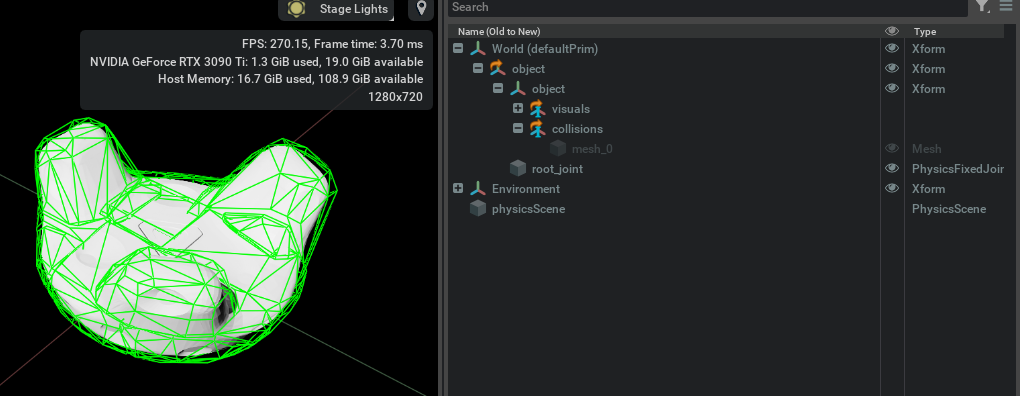
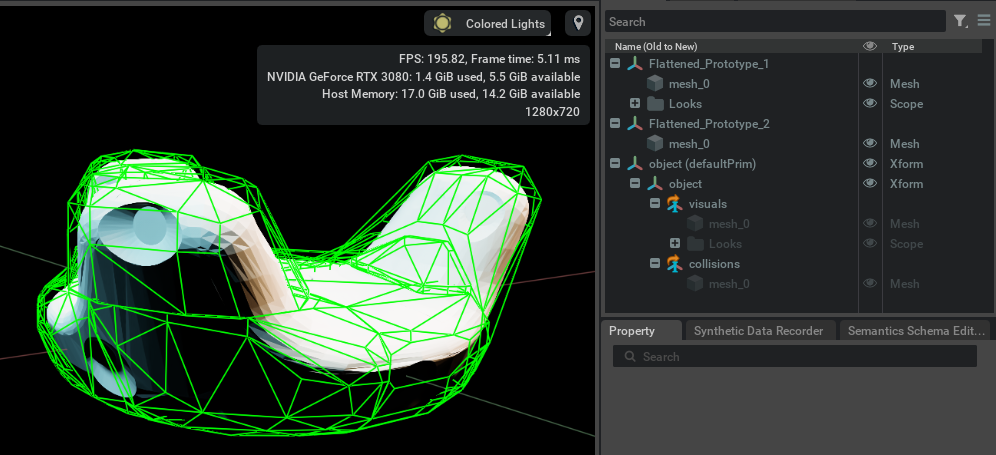
update rl_vive_tracker_object page, now generates usable object

diff --git a/docs/user_guide/rl_vive_tracker_obect.rst b/docs/user_guide/rl_vive_tracker_obect.rst
@@ -82,7 +82,8 @@ pane as follows:
 
 .. image:: ../img/rl_isaac_URDF_importer.png
 
-
+Click the folder icon on the ``Import File`` row in the ``Import`` section and go to ``/workspace/omniisaacgymenvs/objects/``. Double click the 
+``vive_tracker.urdf`` file you made earlier.
 Then click the ``IMPORT`` button at the bottom of the URDF Importer pane. This will process the URDF and .obj file(s) and create a new 
 folder named after the URDF file in the ``objects`` directory. This folder will contain a .usd file for the object, 
 as well as a .usd file for the object's meshes. The ``objects`` folder structure should now be:
@@ -98,14 +99,70 @@ as well as a .usd file for the object's meshes. The ``objects`` folder structure
     └── vive_tracker.urdf
 
 
+Enable Coloured Lights
+^^^^^^^^^^^^^^^^^^^^^^^
+
+In the top right corner of the viewport, click the button with a picture of a light that says ``Stage Lights``. Select ``Coloured Lights`` 
+under ``Light Rigs``.
+
+.. image:: ../img/rl_isaac_enable_lighting.png
 
 
 XForm Structure
 ^^^^^^^^^^^^^^^
 
-Xforms must be structured according to the structure in the following image. If you have used the URDF above, this should already be correct.
+The XForm structure of the imported URDF object should currently look like this:
 
-.. image:: ../img/rl_vive_tracker_object_usd_structure.png
+.. image:: ../img/rl_vive_tracker_object_initial_usd_structure.png
+
+
+Delete the root_joint
+^^^^^^^^^^^^^^^^^^^^^
+
+In the ``Stage`` view on the right hand side, right-click ``root_joint`` and click ``Delete``.
+
+.. image:: ../img/rl_isaac_tracker_delete_root.png
+
+
+Set default prim
+^^^^^^^^^^^^^^^^
+
+In the ``Stage`` view on the right hand side, right-click the top ``object`` XForm and click ``Set as Default Prim``.
+
+.. image:: ../img/rl_isaac_tracker_set_default_prim.png
+
+
+Delete Physics Articulation Root
+^^^^^^^^^^^^^^^^^^^^^^^^^^^^^^^^
+
+In the ``Stage`` view on the right hand side, select the top ``object`` XForm. In the ``Property`` pane below the ``Stage`` pane, scroll down to the ``Physics`` 
+section. To the right of ``Articulation Root``, click the red ``X`` button. When asked if you are sure you want to remove the ``Articulation root`` 
+component, select yes.
+
+.. image:: ../img/rl_isaac_tracker_delete_physics_articulation_root.png
+
+Save the tracker as a flattened .usda file
+^^^^^^^^^^^^^^^^^^^^^^^^^^^^^^^^^^^^^^^^^^
+
+Click ``File`` > ``Save Flattened As...``
+
+Change the extention to ``.usda``, the filename as ``vive_tracker_flat``, and save the file in the ``objects/vive_tracker`` 
+directory:
+
+``/workspace/omniisaacgymenvs/objects/vive_tracker``
+
+.. image:: ../img/rl_save_flattened_tracker.png
+
+Now, clear the stage: ``File`` > ``New``. When prompted, click ``Don't Save``.
+
+Now, load the file we just saved.
+
+``File`` > ``Open``
+
+And select/open the file we just saved called ``vive_tracker_flat.usda``:
+
+.. image:: ../img/rl_open_vive_tracker_flat.png
+
 
 
 Tuning the collision mesh
@@ -133,18 +190,19 @@ You should now be able to see the collision mesh and the following asset structu
 You will notice that the collision mesh is larger than the imported object. Lets fix this.
 
 
-(Temporarily) disable the Instanceable property of the collisions XForm
-^^^^^^^^^^^^^^^^^^^^^^^^^^^^^^^^^^^^^^^^^^^^^^^^^^^^^^^^^^^^^^^^^^^^^^^
+Find which prototype is the collision mesh
+^^^^^^^^^^^^^^^^^^^^^^^^^^^^^^^^^^^^^^^^^^
+In the ``Stage`` pane on the right, go to ``object`` > ``object`` > ``collisions``. In the ``Property`` pane below, in the ``References`` section, 
+have a look at the Prim Path for the collision mesh:
 
-To change the properties of the convex decomposition, we first need to uncheck the ``Instanceable`` property of the collisions XForm.
+.. image:: ../img/rl_tracker_isaac_which_prototype_is_collision.png
 
-.. image:: ../img/rl_uncheck_collisions_instanceable.png
+In this case, you can see that it says ``/Flattened_Prototype_1``. Now, in the ``Stage`` pane, go to ``Flattened_Prototype_1`` > ``mesh_0`` (or whichever 
+prototype was specified in the ``References`` section of the collision mesh). Make sure ``mesh_0`` of the approperiate ``Flattened_Prototype_x`` XForm 
+is selected. 
 
-
-Then, select ``mesh_0`` under ``collisions`` in the Stage window in the top right of the Isaac GUI, and in the ``Property`` pane scroll down to 
-``Physics`` > ``Collider``.
-
-.. image:: ../img/rl_convex_decomp_mesh0.png
+Tuning the convex decomposition of the collision mesh
+^^^^^^^^^^^^^^^^^^^^^^^^^^^^^^^^^^^^^^^^^^^^^^^^^^^^^
 
 To bring up the convex decomposition settings we need, under ``Approximation``, change the option from ``Convex Decomposition`` 
 to something else (e.g. ``Triangle Mesh``) and then change it back to ``Convex Decomposition``. Now expand the ``Advanced`` section. The ``Physics`` > 
@@ -152,15 +210,14 @@ to something else (e.g. ``Triangle Mesh``) and then change it back to ``Convex D
 
 .. image:: ../img/rl_convex_decomp_mesh0_advanced.png
 
-* You probably want to increase the ``Voxel Resolution`` to max (5000000). This will increase the time taken to 
-compute the convex decomposition but shouldn't have an impact on runtime performance. 
+Make the following changes:
 
-* Play around with increasing the ``Max Convex Hulls``, in theory 
-this should give a more accurate convex decomposition, but this could potentially slow the RL simulation down. We have gone for around 200 Max Convex 
-Hulls for this example. 
+* You probably want to increase the ``Voxel Resolution`` to max (5000000). This will increase the time taken to compute the convex decomposition but shouldn't have an impact on runtime performance. 
 
-* Finally, tick the ``Shrink Wrap`` box to have the convex decomposition process attempt to adjust the convex hulls so that their 
-points lie on the surface of the original mesh.
+* Play around with increasing the ``Max Convex Hulls``, in theory this should give a more accurate convex decomposition, but this could potentially slow the RL simulation down. We have gone for around 200 Max Convex Hulls for this example. 
+
+* Finally, tick the ``Shrink Wrap`` box to have the convex decomposition process attempt to adjust the convex hulls so that their points lie on the surface of the original mesh.
+
 
 .. image:: ../img/rl_convex_decomp_mesh0_advanced_shrinkwrap.png
 
@@ -168,33 +225,4 @@ The imported URDF object should now look like this:
 
 .. image:: ../img/rl_convex_decomp_mesh0_advanced_shrinkwrap_result.png
 
-
-Re-enable the instanceable collision mesh
-^^^^^^^^^^^^^^^^^^^^^^^^^^^^^^^^^^^^^^^^^
-
-Now that we have tuned the convex decomposition settings, we can re-enable the ``Instanceable`` property of the collisions XForm. If we just 
-re-tick the ``Instanceable`` box, the convex decomposition settings will be reset.
-
-Click ``File`` > ``Save Flattened As...``
-
-Change the extention to ``.usda``, the filename as ``vive_tracker_flat``, and save the file in the ``objects`` directory 
-we made earlier: ``/workspace/omniisaacgymenvs/objects/``
-
-.. image:: ../img/rl_save_flattened_tracker.png
-
-Now, clear the stage: ``File`` > ``New``. When prompted, click ``Don't Save``.
-
-Now, load the file we just saved.
-
-``File`` > ``Open``
-
-And select/open the file we just saved called ``vive_tracker_flat.usda``:
-
-.. image:: ../img/rl_open_vive_tracker_flat.png
-
-
-Now, reenable the instanceable property of the collisions XForm in the ``Stage`` pane: ``object`` > ``object`` > ``collisions``:
-
-.. image:: ../img/rl_reenable_instanceable_property.png
-
-Click ``File`` > ``Save``
+Click ``File`` > ``Save``. When prompted, click ``Save``.

diff --git a/docs/user_guide/rl_start_training.rst b/docs/user_guide/rl_start_training.rst
@@ -20,7 +20,7 @@ First, lets use a small number of environments to check that everything is worki
 
 .. code-block:: bash
 
-    num_envs=64 /isaac-sim/python.sh scripts/rlgames_train.py task=ShadowHandOpenAI_LSTM train=ShadowHandOpenAI_LSTMPPO task.env.numEnvs=${num_envs} train.params.config.minibatch_size=$(( $num_envs * 2 )) train.params.config.central_value_config.minibatch_size=$(( $num_envs * 4 ))
+    export num_envs=64; /isaac-sim/python.sh scripts/rlgames_train.py task=ShadowHandOpenAI_LSTM train=ShadowHandOpenAI_LSTMPPO task.env.numEnvs=${num_envs} train.params.config.minibatch_size=$(( $num_envs * 2 )) train.params.config.central_value_config.minibatch_size=$(( $num_envs * 4 ))
 
 After a few minutes you should see the simulation window start, and a grid of 8x8 hands all starting to learn to manipulate the vive tracker. 
 Please check that:

diff --git a/docs/user_guide/rl_running_policy_on_real_hardware.rst b/docs/user_guide/rl_running_policy_on_real_hardware.rst
@@ -30,12 +30,19 @@ Clone this repository to the following location inside the container:
     catkin_make -DCMAKE_BUILD_TYPE=RelWithDebInfo
 
 
-Connect your vive, and in a host terminal (outside the docker containers) run the following command to start the steamvr vive interface:
+Connect your vive, and either:
+
+Start steam and start the steamvr application
+
+OR
+
+in a host terminal (outside the docker containers) run the following command:
 
 .. code-block:: bash
-
-    cd /home/user/.steam/bin/ && STEAM_RUNTIME=1 ./vrstartup.sh
-
+    
+    cd ~/.steam/root/steamapps/common/SteamVR/bin/
+    STEAM_RUNTIME=1 ./vrstartup.sh 
+    
 
 Now, in seperate terminals (all in the `rl_inference_real_hw` container), run the following commands to start the hand and run the RL policy:
 
